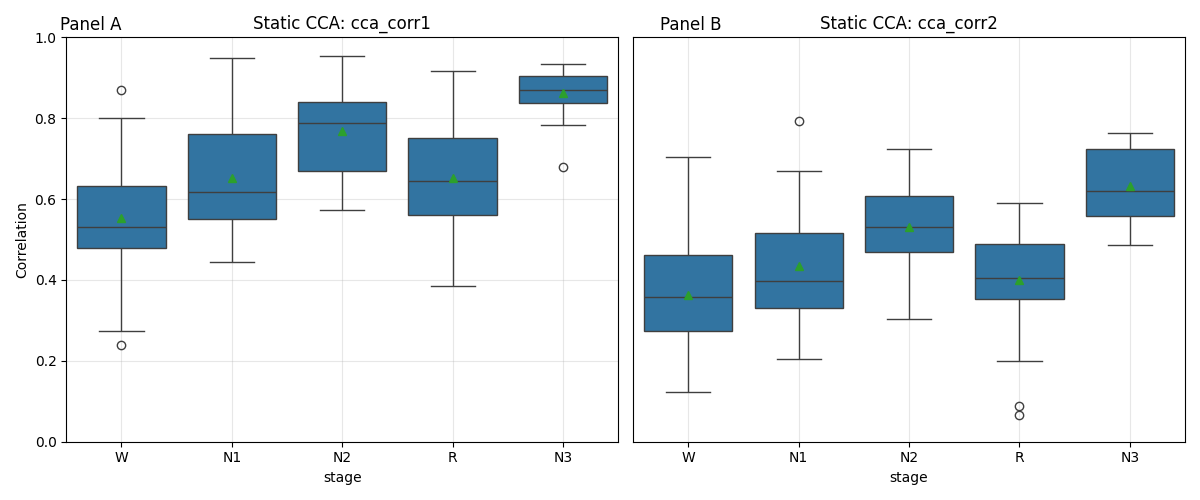
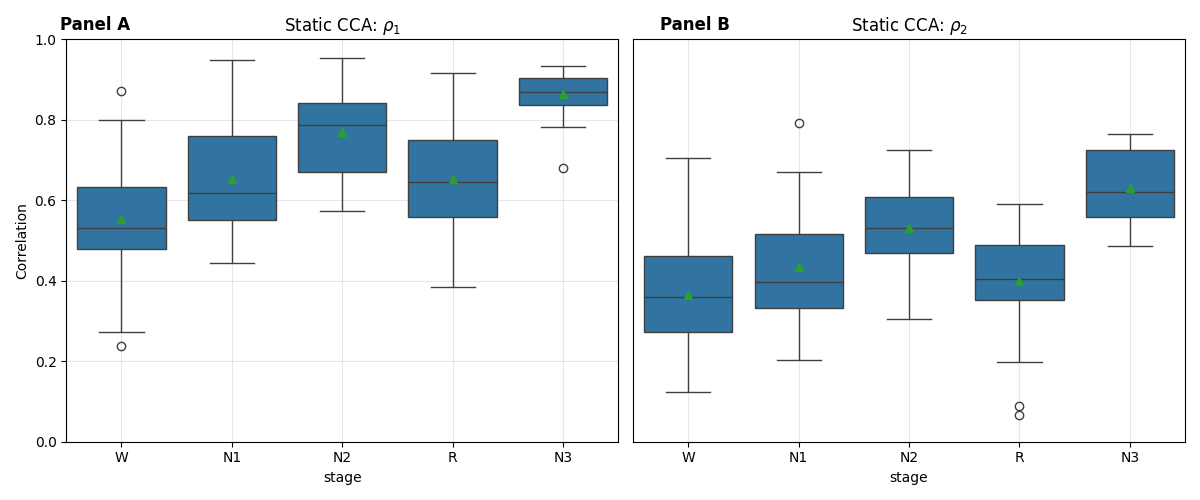
updated figs

diff --git a/src/generate_figures_report.py b/src/generate_figures_report.py
@@ -7,6 +7,8 @@ import pandas as pd
 import os
 
 # Parameters
+#plt.rcParams['text.usetex'] = True  # Enable LaTeX rendering
+
 config = load_config()
 
 SUMMARY_FOLDER = config.static_cca_params.output_dir # "data/static_cca"
@@ -22,19 +24,19 @@ entropy_by_subject_stage = pd.read_csv(os.path.join(TIME_RESOLVED_RESULTS_FOLDER
 # Figure 1: Static CCA Boxplots
 fig, axs = plt.subplots(1, 2, figsize=(12, 5))
 sns.boxplot(x="stage", y="cca_corr1", data=summary_df, showmeans=True, ax=axs[0])
-axs[0].set_title("Static CCA: cca_corr1")
+axs[0].set_title(r"Static CCA: $\rho_1$")
 axs[0].set_ylabel("Correlation")
 axs[0].grid(alpha=0.3)
 axs[0].set_ylim(0,1)
-fig.text(0.05, 0.95, 'Panel A', ha='left', va='center', rotation='horizontal', fontsize=12)
+fig.text(0.05, 0.95, 'Panel A', ha='left', va='center', rotation='horizontal', fontsize=12, fontweight='bold')
 
 sns.boxplot(x="stage", y="cca_corr2", data=summary_df, showmeans=True, ax=axs[1])
-axs[1].set_title("Static CCA: cca_corr2")
+axs[1].set_title(r"Static CCA: $\rho_2$")
 #axs[1].set_ylabel("Correlation")
 axs[1].grid(alpha=0.3)
 axs[1].set_ylim(0,1)
 axs[1].yaxis.set_visible(False)
-fig.text(0.55, 0.95, 'Panel B', ha='left', va='center', rotation='horizontal', fontsize=12)
+fig.text(0.55, 0.95, 'Panel B', ha='left', va='center', rotation='horizontal', fontsize=12, fontweight='bold')
 
 plt.tight_layout()
 plt.savefig(os.path.join(REPORT_FIGURES_FOLDER, "figure1_static_cca_boxplots.png"))
@@ -44,19 +46,19 @@ logger.info("Saved static CCA boxplots.")
 # Figure 2: Time-resolved CCA Boxplots
 fig, axs = plt.subplots(1, 2, figsize=(12, 5))
 sns.boxplot(x='stage', y='cca_corr1', data=subset_trajectories, ax=axs[0])
-axs[0].set_title('Time-Resolved CCA: cca_corr1')
+axs[0].set_title(r'Time-Resolved CCA: $\rho_1$')
 axs[0].set_ylabel("Correlation")
 axs[0].grid(alpha=0.3)
 axs[0].set_ylim(0,1)
-fig.text(0.05, 0.95, 'Panel A', ha='left', va='center', rotation='horizontal', fontsize=12)
+fig.text(0.05, 0.95, 'Panel A', ha='left', va='center', rotation='horizontal', fontsize=12, fontweight='bold')
 
 sns.boxplot(x='stage', y='cca_corr2', data=subset_trajectories, ax=axs[1])
-axs[1].set_title('Time-Resolved CCA: cca_corr2')
+axs[1].set_title(r'Time-Resolved CCA: $\rho_2$')
 #axs[1].set_ylabel("Correlation")
 axs[1].grid(alpha=0.3)
 axs[1].set_ylim(0,1)
 axs[1].yaxis.set_visible(False)
-fig.text(0.55, 0.95, 'Panel B', ha='left', va='center', rotation='horizontal', fontsize=12)
+fig.text(0.55, 0.95, 'Panel B', ha='left', va='center', rotation='horizontal', fontsize=12, fontweight='bold')
 
 plt.tight_layout()
 plt.savefig(os.path.join(REPORT_FIGURES_FOLDER, "figure2_time_resolved_boxplots.png"))
@@ -70,22 +72,22 @@ for stage in mean_cca_trajectory_by_stage['stage'].unique():
     axs[0].plot(data.index, data['cca_corr1'], label=stage)
     axs[1].plot(data.index, data['cca_corr2'], label=stage)
 
-axs[0].set_title("Mean Trajectory: cca_corr1")
+axs[0].set_title(r"Mean Trajectory: $\rho_1$")
 axs[0].set_xlabel("Time Bin Index")
 axs[0].set_ylabel("Correlation")
 #axs[0].legend()
 axs[0].grid(alpha=0.3)
 axs[0].set_ylim(0,1)
-fig.text(0.05, 0.9, 'Panel A', ha='left', va='center', rotation='horizontal', fontsize=12)
+fig.text(0.05, 0.9, 'Panel A', ha='left', va='center', rotation='horizontal', fontsize=12, fontweight='bold')
 
-axs[1].set_title("Mean Trajectory: cca_corr2")
+axs[1].set_title(r"Mean Trajectory: $\rho_2$")
 axs[1].set_xlabel("Time Bin Index")
 #axs[1].set_ylabel("Correlation")
 #axs[1].legend()
 axs[1].grid(alpha=0.3)
 axs[1].set_ylim(0,1)
 axs[1].yaxis.set_visible(False)
-fig.text(0.55, 0.9, 'Panel B', ha='left', va='center', rotation='horizontal', fontsize=12)
+fig.text(0.55, 0.9, 'Panel B', ha='left', va='center', rotation='horizontal', fontsize=12, fontweight='bold')
 
 handles, labels = axs[0].get_legend_handles_labels()
 
@@ -107,19 +109,19 @@ logger.info("Saved mean CCA trajectories by stage.")
 # Figure 4: Entropy Boxplots
 fig, axs = plt.subplots(1, 2, figsize=(12, 5))
 sns.boxplot(x='stage', y='cca_corr1_compute_entropy', data=entropy_by_subject_stage, ax=axs[0])
-axs[0].set_title("Entropy: cca_corr1")
+axs[0].set_title(r"Entropy: $\rho_1$")
 axs[0].set_ylabel("Entropy")
 axs[0].grid(alpha=0.3)
 axs[0].set_ylim(0,3)
-fig.text(0.05, 0.95, 'Panel A', ha='left', va='center', rotation='horizontal', fontsize=12)
+fig.text(0.05, 0.95, 'Panel A', ha='left', va='center', rotation='horizontal', fontsize=12, fontweight='bold')
 
 sns.boxplot(x='stage', y='cca_corr2_compute_entropy', data=entropy_by_subject_stage, ax=axs[1])
-axs[1].set_title("Entropy: cca_corr2")
+axs[1].set_title(r"Entropy: $\rho_2$")
 #axs[1].set_ylabel("Entropy")
 axs[1].grid(alpha=0.3)
 axs[1].set_ylim(0,3)
 axs[1].yaxis.set_visible(False)
-fig.text(0.55, 0.95, 'Panel B', ha='left', va='center', rotation='horizontal', fontsize=12)
+fig.text(0.55, 0.95, 'Panel B', ha='left', va='center', rotation='horizontal', fontsize=12, fontweight='bold')
 
 plt.tight_layout()
 plt.savefig(os.path.join(REPORT_FIGURES_FOLDER, "figure4_entropy_boxplots.png"))
